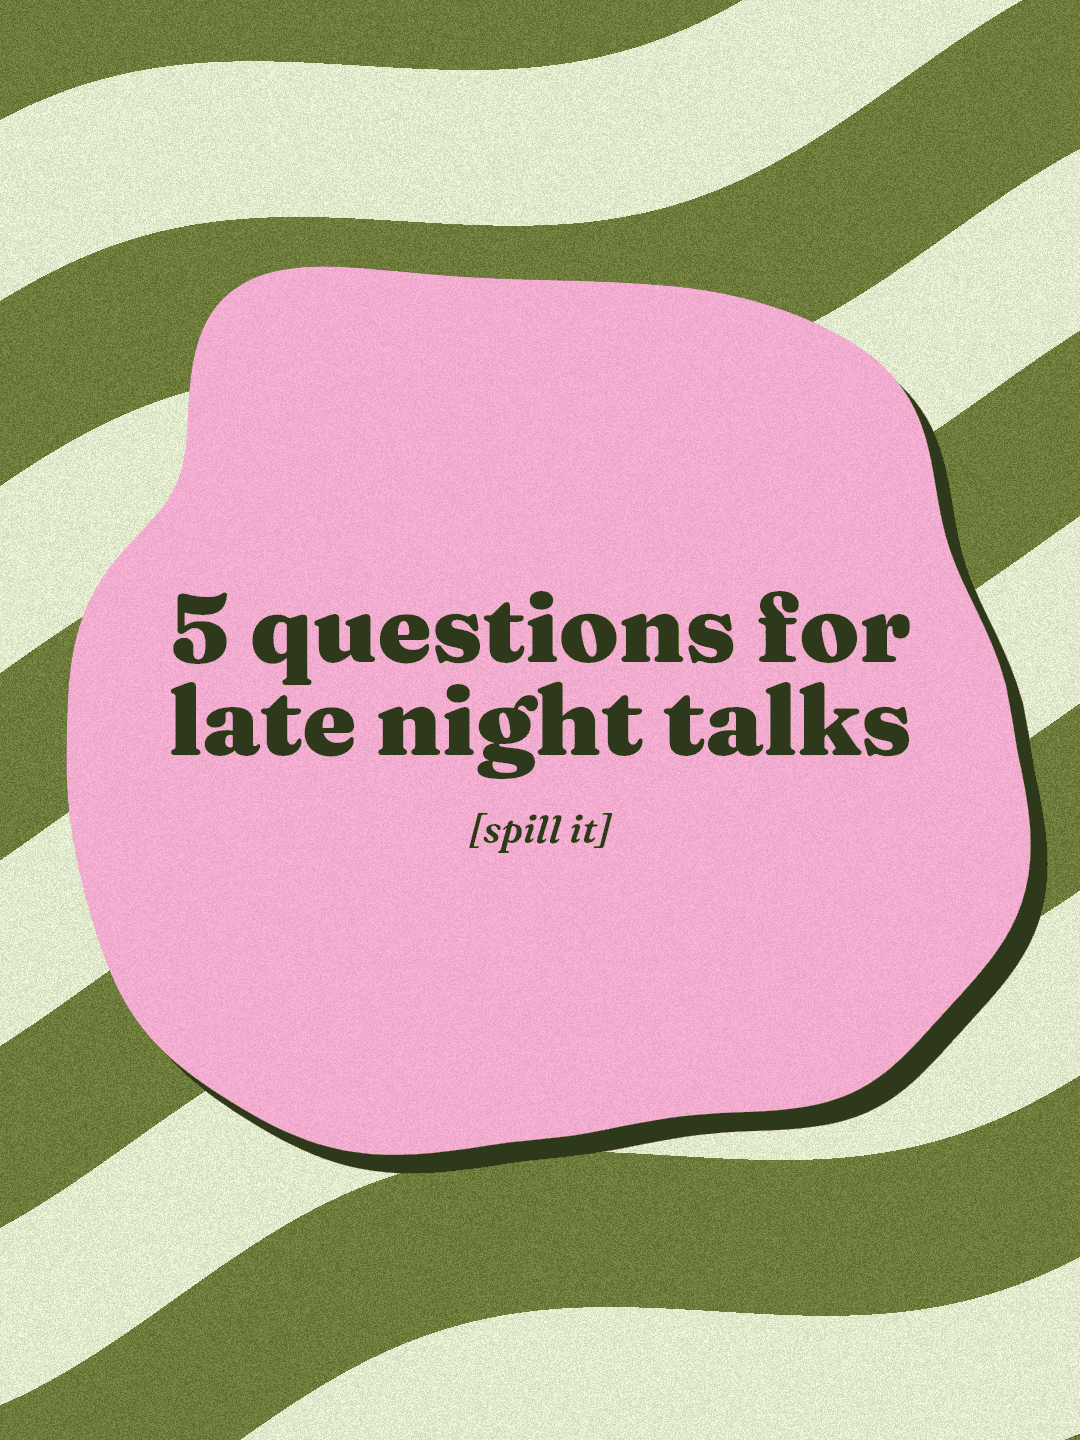
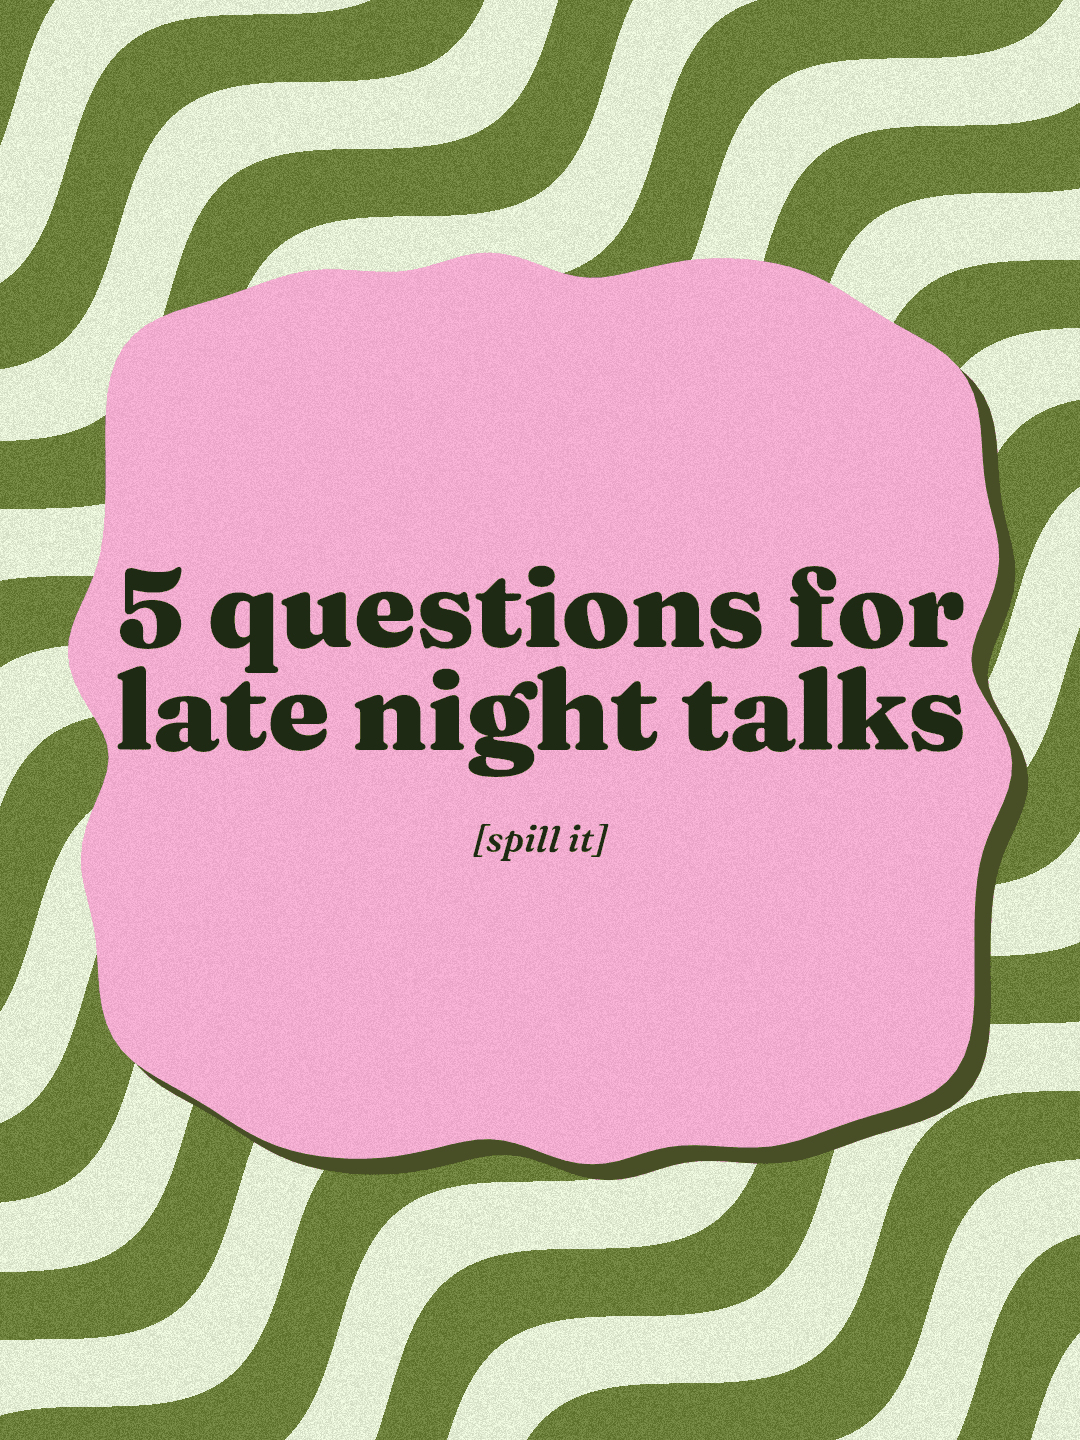
Tighten template 32 stripes, blob, and cover type.
Match the reference with steeper, thinner sine bands, a flatter scalloped squircle, and larger two-line cover type.

diff --git a/app/lib/image-template-32-wavy-blob.ts b/app/lib/image-template-32-wavy-blob.ts
@@ -26,24 +26,25 @@ export const IMAGE_TEMPLATE32_FONT_STACK =
   '"Fraunces", "Libre Baskerville", Georgia, "Times New Roman", serif';
 
 /** Stripe axis, degrees. Negative rises toward the upper right. */
-const STRIPE_ANGLE = -16;
-const STRIPE_THICKNESS = 0.15;
-const STRIPE_AMPLITUDE = 0.36;
-const STRIPE_WAVELENGTH = 0.96;
-const STRIPE_PHASE = 1.15;
+const STRIPE_ANGLE = -37;
+const STRIPE_THICKNESS = 0.078;
+const STRIPE_AMPLITUDE = 0.68;
+const STRIPE_WAVELENGTH = 0.45;
+const STRIPE_PHASE = 0.55;
 
 const BLOB_CX = 0.5;
-const BLOB_CY = 0.498;
-const BLOB_RX = 0.425;
-const BLOB_RY = 0.305;
-const BLOB_SHADOW_X = 0.016;
-const BLOB_SHADOW_Y = 0.013;
+const BLOB_CY = 0.492;
+const BLOB_RX = 0.418;
+const BLOB_RY = 0.308;
+const BLOB_N = 4.3;
+const BLOB_SHADOW_X = 0.015;
+const BLOB_SHADOW_Y = 0.011;
 
-const COVER_SIZE = 0.09;
-const COVER_LEADING = 0.96;
-const COVER_WIDTH = 0.76;
-const MARK_SIZE = 0.036;
-const MARK_GAP = 0.38;
+const COVER_SIZE = 0.103;
+const COVER_LEADING = 0.92;
+const COVER_WIDTH = 0.82;
+const MARK_SIZE = 0.034;
+const MARK_GAP = 0.46;
 
 const QUESTION_SIZE = 0.052;
 const QUESTION_LEADING = 1.12;
@@ -101,8 +102,8 @@ function paintStripes(ctx: CanvasRenderingContext2D, width: number, height: numb
   const amplitude = thickness * STRIPE_AMPLITUDE;
   const wavelength = width * STRIPE_WAVELENGTH;
   const freq = (Math.PI * 2) / wavelength;
-  const olive = [110, 124, 59];
-  const mint = [226, 234, 206];
+  const olive = [107, 127, 58];
+  const mint = [227, 237, 211];
   const rand = mulberry32(32);
   for (let y = 0; y < height; y++) {
     const yNy = y * ny;
@@ -124,19 +125,24 @@ function paintStripes(ctx: CanvasRenderingContext2D, width: number, height: numb
   ctx.putImageData(image, 0, 0);
 }
 
-function blobPoint(t: number, cx: number, cy: number, rx: number, ry: number) {
-  const c = Math.cos(t);
-  const s = Math.sin(t);
-  const n = 2.7;
-  const sx = Math.sign(c) * Math.pow(Math.abs(c), 2 / n);
-  const sy = Math.sign(s) * Math.pow(Math.abs(s), 2 / n);
-  const wobble =
+function blobPoint(theta: number, cx: number, cy: number, rx: number, ry: number) {
+  const c = Math.cos(theta);
+  const s = Math.sin(theta);
+  const base = Math.pow(
+    Math.pow(Math.abs(c) / rx, BLOB_N) + Math.pow(Math.abs(s) / ry, BLOB_N),
+    -1 / BLOB_N
+  );
+  // Soft scallops along each edge. Higher harmonics stay small so the
+  // top and bottom stay flat instead of turning into a lumpy outline.
+  const edge = 0.62 + 0.38 * c * c;
+  const scallop =
     1 +
-    0.048 * Math.sin(3 * t + 0.45) +
-    0.034 * Math.sin(5 * t - 0.7) +
-    0.026 * Math.sin(6 * t + 1.35) +
-    0.018 * Math.sin(8 * t + 0.2);
-  return { x: cx + rx * sx * wobble, y: cy + ry * sy * wobble };
+    edge *
+      (0.026 * Math.sin(10 * theta + 0.25) +
+        0.018 * Math.sin(14 * theta - 0.7) +
+        0.011 * Math.sin(18 * theta + 0.45));
+  const rad = base * scallop;
+  return { x: cx + rad * c, y: cy + rad * s };
 }
 
 function traceBlob(
